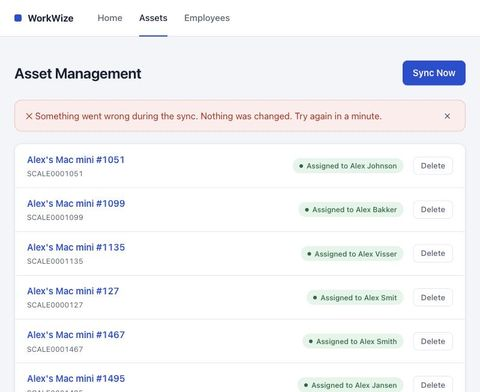
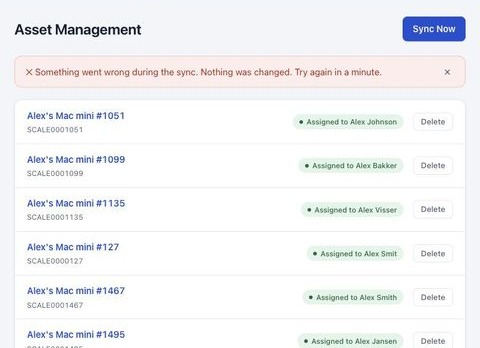
Screenshots: 9 retaken at 2x with the app's own top bar from the same scenarios; 5 with the old top bar cropped off

diff --git a/docs/CHANGELOG.md b/docs/CHANGELOG.md
@@ -11,6 +11,11 @@ What was built, step by step. Newest at the top.
 - Commit: <hash>
 -->
 
+## 2026-10-20: Screenshots retaken for the public copy
+- 9 "after" pictures retaken at double resolution with "MDM Device Sync" in the top bar, in a separate test copy, re-creating the same situations: the normal mock, `eventful.json`, deleting Alex, `empty.json`, `broken.json`, a stopped database, a frozen backend. 5 pictures that need a crash or 5,000 laptops to re-create had the old top bar cropped off. "Before" pictures unchanged.
+- Why: the old pictures showed WorkWize's name in the top bar. [Our addition]
+- Commit: (this save point)
+
 ## 2026-10-20: Public copy: own name, no WorkWize files, licence
 - The app shows its own name, "MDM Device Sync", in the top bar instead of the WorkWize logo; the footer says it's a case study set by WorkWize, not a WorkWize product; colours unchanged, named navy and bright blue. Links to WorkWize's brief and reference code are plain notes now. The changelog's save-point IDs point to this copy's history. "Submission" and "reviewers" read "hand-in to WorkWize" and "start here" in the current docs (older changelog entries are left as written). Licence: all rights reserved (LICENSE file). The README's first line credits WorkWize.
 - Why: a public copy for Muhammad's portfolio, with WorkWize's permission, without their files. Website tests 117, all passing; deliberate break: the logo put back, caught. The colour test also caught the new icon coloured through the text colour; fixed before saving. [Our addition]

diff --git a/docs/TEST-LOG.md b/docs/TEST-LOG.md
@@ -232,7 +232,7 @@ A visual change only, approved by Muhammad: wording, behaviour and statuses stay
 
 **Pictures:** all 15 pictures that show the app as it is now were retaken with the redesigned look (16 Oct 2026, after the redesign and before the logo), by re-creating the same situation with WorkWize's mock data (the crash and error ones with a stopped database, a frozen backend and a real out-of-memory crash). The 6 "before" pictures stay as they were: they show the earlier behaviour and look.
 
-*Screenshots were taken on 16 Oct 2026. The top bar has changed since: it now shows the app's name, "MDM Device Sync".*
+*Public copy, 20 Oct 2026: 9 pictures retaken at double resolution with the app's own name in the top bar, by re-creating the same situations (the scenario files, a stopped database, a frozen backend); 5 more had the old top bar cropped off. "Before" pictures are unchanged: they show the earlier behaviour.*
 
 ## Final audit before hand-in to WorkWize (16 Oct 2026)
 

diff --git a/README.md b/README.md
@@ -119,7 +119,7 @@ Each one in short: the situation, the options, my call and the price I accepted.
 
 ### What it looks like
 
-*Screenshots were taken on 16 Oct 2026. The top bar has changed since: it now shows the app's name, "MDM Device Sync".*
+*Public copy, 20 Oct 2026: 9 pictures retaken at double resolution with the app's own name in the top bar, by re-creating the same situations (the scenario files, a stopped database, a frozen backend); 5 more had the old top bar cropped off. "Before" pictures are unchanged: they show the earlier behaviour.*
 
 **After a sync, what needs a person comes first**, by name and with a link: here a leaver's laptop to collect and a laptop that disappeared from Jamf.
 
